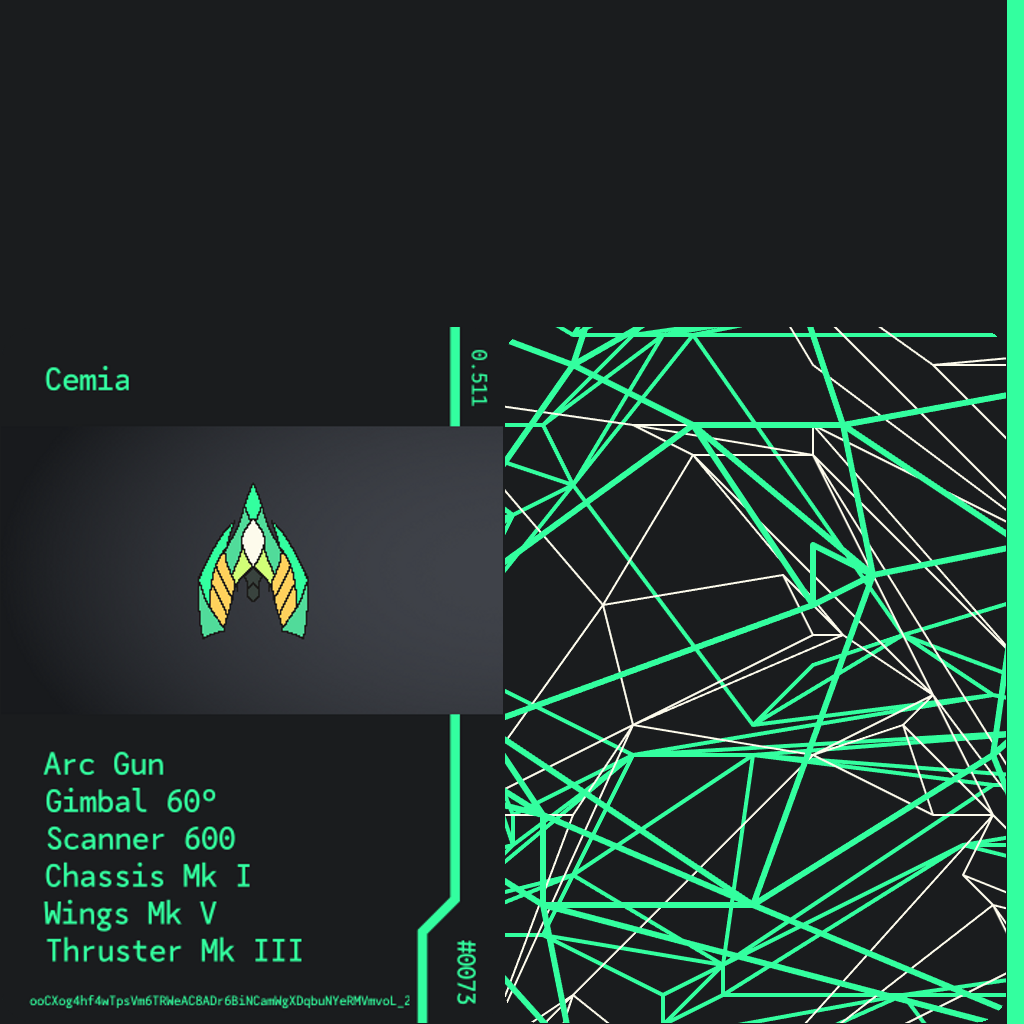
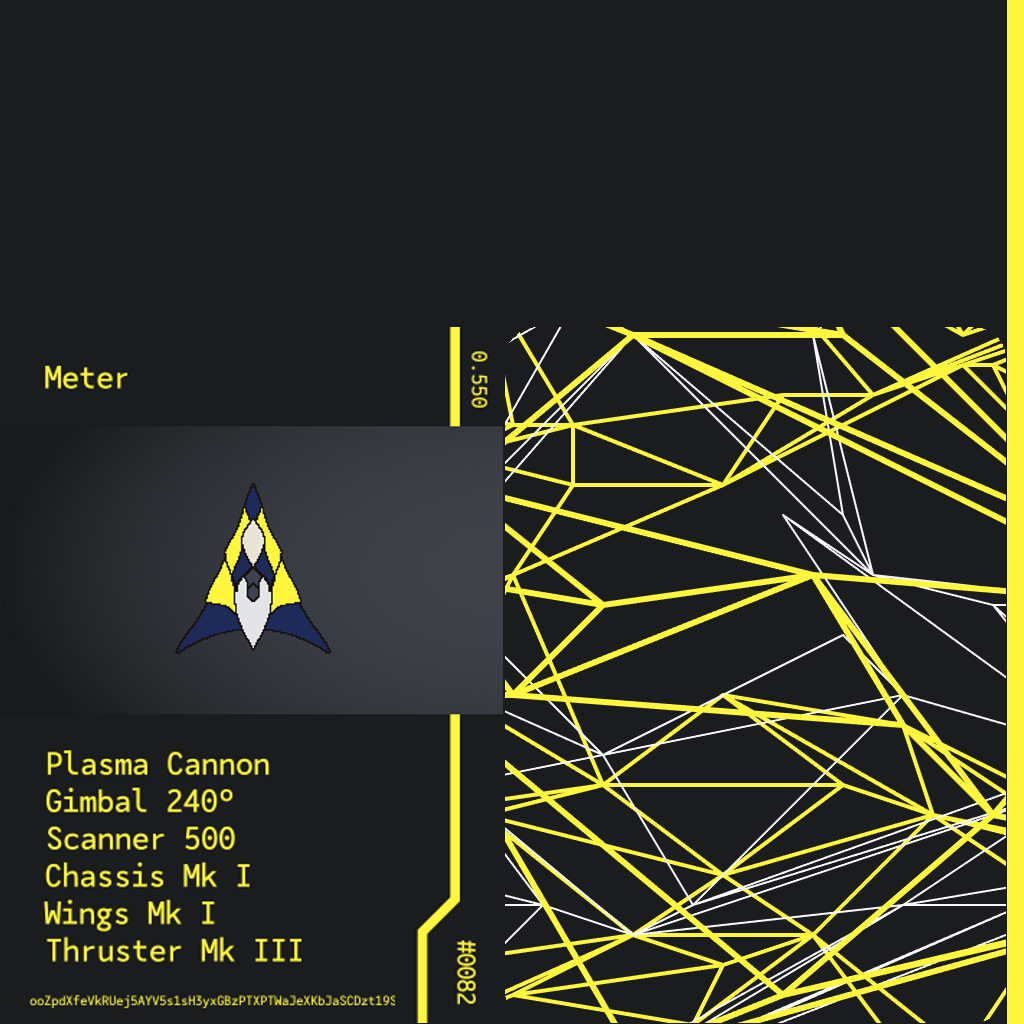
latest

diff --git a/index.js b/index.js
@@ -713,9 +713,6 @@ const allSeeds = [
         walletId: 'tz1MsrdFYZfY5SJynGCjBCgsLeR3aVRMitTn',
         edition: 71
     },
-];
-
-const currentSeeds = [
     {
         seed: 'ooCXog4hf4wTpsVm6TRWeAC8ADr6BiNCamWgXDqbuNYeRMVmvoL',
         walletId: 'tz1iaGYzLKTnatyN7UjimbKfYdUEwiG9xKM5',
@@ -725,6 +722,54 @@ const currentSeeds = [
         seed: 'ooCXog4hf4wTpsVm6TRWeAC8ADr6BiNCamWgXDqbuNYeRMVmvoL_2',
         walletId: 'tz1iaGYzLKTnatyN7UjimbKfYdUEwiG9xKM5',
         edition: 73
+    },
+    {
+        seed: 'onr4j9mRmJ2EDUh4crpeezV79VQtqjTnRJP9noQ185gXjuUbr4b',
+        walletId: 'tz1gHQkfAo2bnWXUaSXK9a4t2p8CmesJZWfW',
+        edition: 74
+    },
+    {
+        seed: 'opNRyCHkaCeWG229PftNs1CKg4jaL9kipQHLq9sgd6j2QQBnBfn',
+        walletId: 'tz1X7g3cVm1kkoTp6d4cNKprZUC2e3cDC91x',
+        edition: 75
+    },
+    {
+        seed: 'ooEcpEhaCtatiPdri98nTju4rfCgojticZEdvRhhxipibe5pABm',
+        walletId: 'tz1Us632Z8mVMLZqCs1FXuwyBEBe6o4KjHzG',
+        edition: 76
+    },
+    {
+        seed: 'ooEcpEhaCtatiPdri98nTju4rfCgojticZEdvRhhxipibe5pABm_2',
+        walletId: 'tz1Us632Z8mVMLZqCs1FXuwyBEBe6o4KjHzG',
+        edition: 77
+    },
+    {
+        seed: 'ooEcpEhaCtatiPdri98nTju4rfCgojticZEdvRhhxipibe5pABm_3',
+        walletId: 'tz1Us632Z8mVMLZqCs1FXuwyBEBe6o4KjHzG',
+        edition: 78
+    },
+    {
+        seed: 'ooDwTo88CX9414iE8np22AQX1vu1ucrz55bNpuGmj5HYT7Qc2t5',
+        walletId: 'tz1TGLDoTGF8qyc6gDjCgquKxUMAwCoU6jwV',
+        edition: 79
+    },
+    {
+        seed: 'ooW41yEgG6REzh7gJZ2qER2tN9YFckzZKrrW5gdSY2tdwY9t9kt',
+        walletId: 'tz1iaGYzLKTnatyN7UjimbKfYdUEwiG9xKM5',
+        edition: 80
+    },
+    {
+        seed: 'ooW41yEgG6REzh7gJZ2qER2tN9YFckzZKrrW5gdSY2tdwY9t9kt_2',
+        walletId: 'tz1iaGYzLKTnatyN7UjimbKfYdUEwiG9xKM5',
+        edition: 81
+    },
+];
+
+const currentSeeds = [
+    {
+        seed: 'ooZpdXfeVkRUej5AYV5s1sH3yxGBzPTXPTWaJeXKbJaSCDzt19S',
+        walletId: 'tz1NQWFFhVCiz9Kdc5XFEJrf7LoAuFMZjp1f',
+        edition: 82
     }
 ];
 
